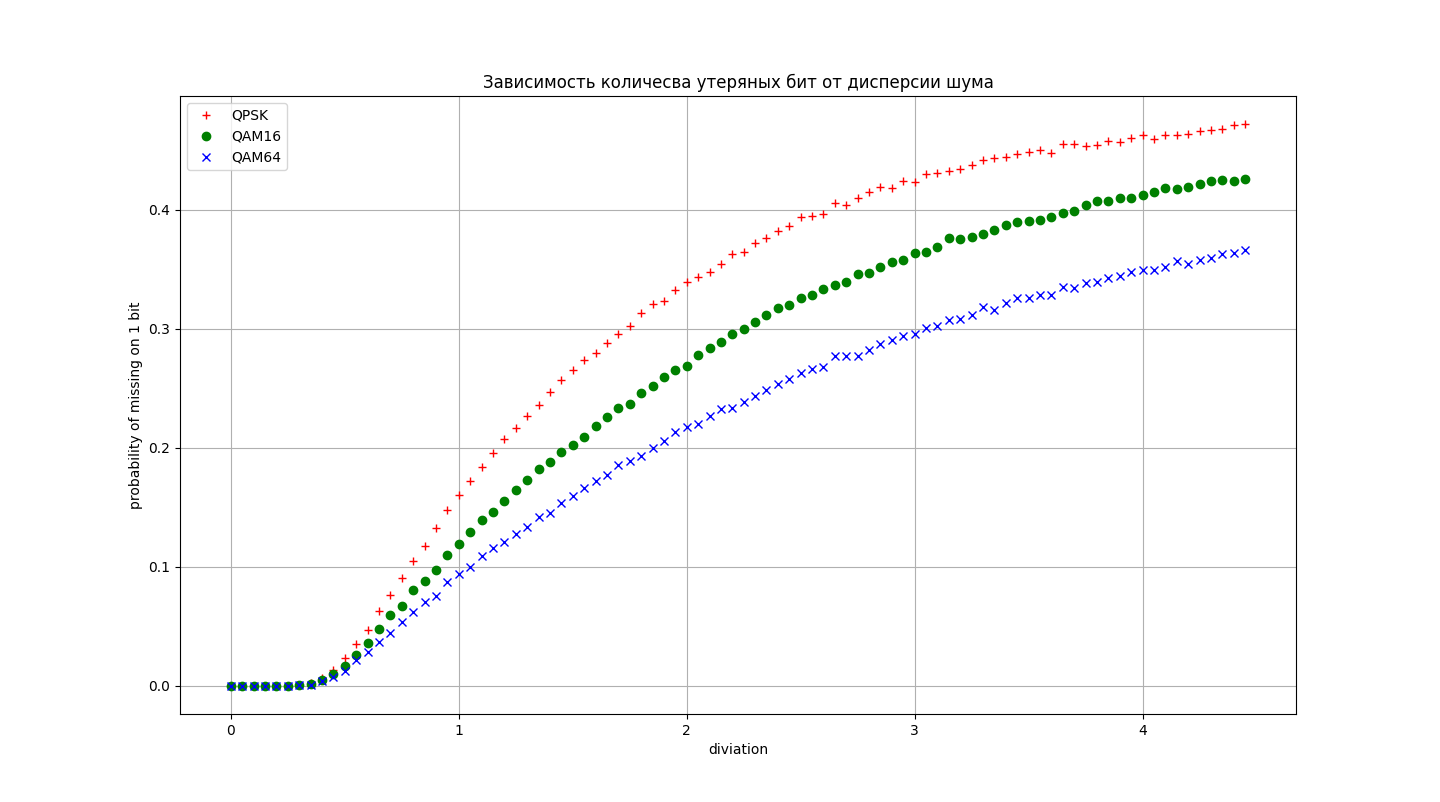
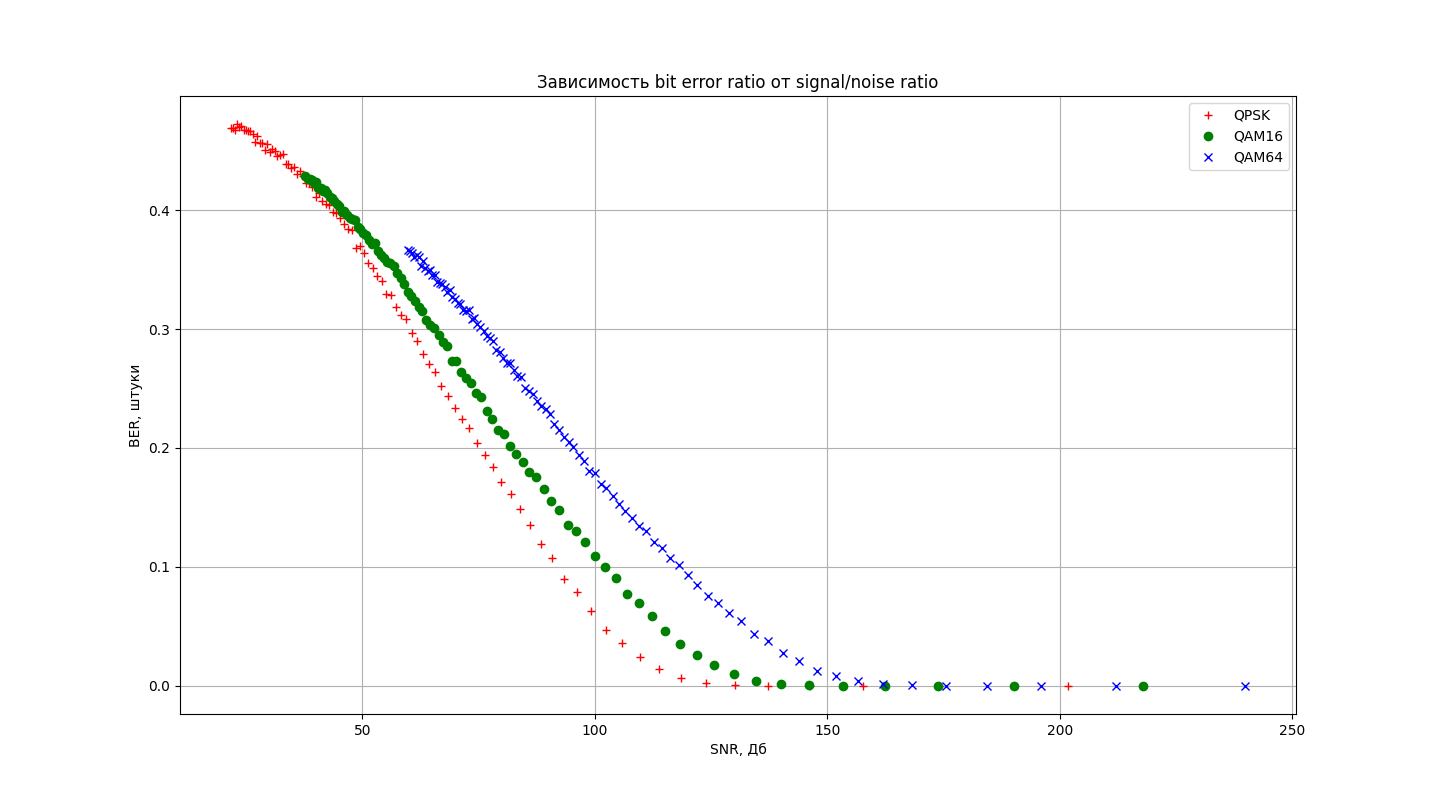
graph's axises changed

diff --git a/output.py b/output.py
@@ -1,24 +1,29 @@
 import numpy as np
 import matplotlib.pyplot as plt
 
-diviation   = np.array([0, 0.05, 0.1, 0.15, 0.2, 0.25, 0.3, 0.35, 0.4, 0.45, 0.5, 0.55, 0.6, 0.65, 0.7, 0.75, 0.8, 0.85, 0.9, 0.95, 1, 1.05, 1.1, 1.15, 1.2, 1.25, 1.3, 1.35, 1.4, 1.45, 1.5, 1.55, 1.6, 1.65, 1.7, 1.75, 1.8, 1.85, 1.9, 1.95, 2, 2.05, 2.1, 2.15, 2.2, 2.25, 2.3, 2.35, 2.4, 2.45, 2.5, 2.55, 2.6, 2.65, 2.7, 2.75, 2.8, 2.85, 2.9, 2.95, 3, 3.05, 3.1, 3.15, 3.2, 3.25, 3.3, 3.35, 3.4, 3.45, 3.5, 3.55, 3.6, 3.65, 3.7, 3.75, 3.8, 3.85, 3.9, 3.95, 4, 4.05, 4.1, 4.15, 4.2, 4.25, 4.3, 4.35, 4.4, 4.45])
-missed_qpsk  = np.array([0, 0, 0, 0, 0, 2.08333e-05, 0.000269167, 0.00230833, 0.00613333, 0.0134867, 0.022925, 0.0351408, 0.0467375, 0.0626575, 0.076515, 0.090275, 0.104446, 0.117608, 0.132761, 0.147706, 0.160357, 0.172095, 0.183497, 0.195783, 0.207605, 0.216571, 0.226692, 0.236045, 0.246639, 0.25687, 0.265033, 0.273576, 0.279857, 0.288381, 0.295595, 0.302405, 0.313428, 0.320752, 0.323545, 0.33284, 0.339456, 0.343368, 0.347666, 0.354675, 0.363334, 0.364907, 0.371978, 0.37618, 0.381884, 0.386511, 0.393906, 0.395158, 0.396718, 0.405668, 0.40386, 0.409687, 0.414977, 0.418905, 0.418637, 0.424173, 0.423513, 0.430078, 0.430743, 0.432459, 0.434781, 0.437994, 0.442345, 0.443942, 0.444653, 0.447339, 0.448345, 0.450333, 0.447632, 0.455239, 0.455628, 0.453803, 0.454877, 0.457949, 0.456906, 0.460642, 0.462801, 0.459647, 0.462816, 0.463362, 0.464197, 0.466256, 0.467585, 0.468216, 0.471198, 0.471949])
-missed_qam16 = np.array([0, 0, 0, 0, 0, 0, 0.0002975, 0.00173583, 0.00492083, 0.0100683, 0.0167083, 0.0261425, 0.0356733, 0.0479733, 0.05959, 0.067025, 0.0804142, 0.0883242, 0.0976625, 0.109867, 0.119097, 0.129005, 0.139707, 0.145844, 0.155647, 0.164417, 0.172807, 0.182504, 0.187658, 0.196305, 0.202529, 0.208819, 0.218249, 0.225598, 0.233717, 0.236727, 0.246028, 0.251882, 0.259337, 0.265445, 0.268645, 0.278186, 0.283878, 0.289028, 0.295329, 0.299855, 0.305391, 0.312025, 0.317217, 0.319969, 0.325848, 0.328182, 0.333696, 0.336455, 0.339206, 0.34641, 0.346693, 0.352324, 0.35624, 0.357527, 0.363371, 0.364201, 0.368777, 0.376383, 0.375401, 0.376928, 0.379524, 0.382688, 0.38736, 0.39007, 0.391079, 0.391567, 0.393838, 0.397068, 0.399172, 0.404099, 0.407804, 0.407807, 0.409798, 0.409714, 0.412257, 0.415153, 0.418197, 0.417903, 0.41892, 0.422097, 0.424577, 0.425012, 0.424652, 0.426305])
-missed_qam64 = np.array([0, 0, 0, 0, 0, 3e-05, 0.000245833, 0.00100167, 0.00386417, 0.0072625, 0.0125667, 0.0213692, 0.028155, 0.03709, 0.0444667, 0.05333, 0.0620533, 0.0707408, 0.0756567, 0.0867908, 0.0941792, 0.0994625, 0.108789, 0.115354, 0.120743, 0.12787, 0.133485, 0.142098, 0.144916, 0.153193, 0.159763, 0.166131, 0.171958, 0.177214, 0.185186, 0.188848, 0.193216, 0.200016, 0.205879, 0.213084, 0.217238, 0.220268, 0.226922, 0.232669, 0.233713, 0.238208, 0.243599, 0.248633, 0.253238, 0.257603, 0.262898, 0.266411, 0.268058, 0.277485, 0.276817, 0.277572, 0.282283, 0.287454, 0.290834, 0.293607, 0.295675, 0.300956, 0.302419, 0.307613, 0.308269, 0.311798, 0.31862, 0.315949, 0.321404, 0.326172, 0.326087, 0.32862, 0.328213, 0.335271, 0.334022, 0.338477, 0.339025, 0.342964, 0.344527, 0.347415, 0.349871, 0.349508, 0.351892, 0.356913, 0.354505, 0.357512, 0.359747, 0.362697, 0.364137, 0.366598])
+SNR_QPSK = np.array([201.716, 173.99, 157.772, 146.264, 137.339, 130.046, 123.88, 118.539, 113.827, 109.613, 105.8, 102.32, 99.1182, 96.1539, 93.3942, 90.8126, 88.3876, 86.1013, 83.9386, 81.8869, 79.9353, 78.0745, 76.2964, 74.594, 72.9611, 71.3923, 69.8827, 68.428, 67.0243, 65.6683, 64.3567, 63.0867, 61.8559, 60.6618, 59.5023, 58.3754, 57.2795, 56.2127, 55.1737, 54.161, 53.1733, 52.2094, 51.2682, 50.3486, 49.4497, 48.5705, 47.7103, 46.8681, 46.0434, 45.2353, 44.4432, 43.6664, 42.9045, 42.1568, 41.4229, 40.7021, 39.9941, 39.2985, 38.6147, 37.9424, 37.2812, 36.6308, 35.9908, 35.3609, 34.7407, 34.13, 33.5285, 32.9359, 32.3519, 31.7764, 31.209, 30.6495, 30.0978, 29.5536, 29.0167, 28.4868, 27.964, 27.4478, 26.9383, 26.4351, 25.9382, 25.4474, 24.9626, 24.4835, 24.0101, 23.5423, 23.0799, 22.6227, 22.1707, 21.7238])
+missed_QPSK = np.array([0, 0, 0, 0, 2.66667e-05, 0.000403333, 0.00197583, 0.0065225, 0.0140225, 0.0242817, 0.0362833, 0.0468225, 0.0628525, 0.0786133, 0.0895475, 0.107346, 0.11947, 0.135386, 0.148602, 0.160922, 0.171348, 0.184113, 0.194297, 0.204506, 0.217091, 0.223951, 0.23327, 0.243803, 0.252304, 0.264188, 0.270668, 0.279257, 0.289652, 0.296616, 0.308036, 0.31208, 0.31873, 0.328582, 0.329664, 0.340005, 0.344279, 0.350936, 0.355792, 0.363532, 0.369874, 0.367819, 0.383618, 0.383858, 0.388664, 0.393156, 0.397647, 0.398758, 0.40465, 0.404898, 0.407687, 0.414297, 0.41138, 0.419223, 0.422598, 0.422868, 0.428838, 0.433223, 0.430655, 0.435975, 0.435346, 0.43865, 0.438597, 0.447072, 0.446156, 0.445145, 0.449763, 0.45136, 0.449082, 0.455307, 0.450496, 0.456337, 0.456863, 0.462741, 0.457674, 0.464037, 0.466887, 0.46664, 0.467195, 0.467129, 0.470325, 0.469621, 0.472162, 0.467504, 0.468725, 0.469382])
+SNR_QAM16 = np.array([217.786, 190.06, 173.842, 162.334, 153.409, 146.116, 139.95, 134.608, 129.897, 125.683, 121.87, 118.39, 115.188, 112.224, 109.464, 106.883, 104.458, 102.171, 100.009, 97.9568, 96.0052, 94.1444, 92.3663, 90.6639, 89.0311, 87.4622, 85.9526, 84.4979, 83.0943, 81.7382, 80.4266, 79.1567, 77.9258, 76.7317, 75.5722, 74.4453, 73.3494, 72.2826, 71.2436, 70.2309, 69.2432, 68.2793, 67.3381, 66.4185, 65.5196, 64.6404, 63.7802, 62.938, 62.1133, 61.3052, 60.5131, 59.7363, 58.9744, 58.2267, 57.4928, 56.772, 56.064, 55.3684, 54.6846, 54.0123, 53.3511, 52.7007, 52.0607, 51.4308, 50.8106, 50.1999, 49.5984, 49.0058, 48.4218, 47.8463, 47.2789, 46.7194, 46.1677, 45.6235, 45.0866, 44.5568, 44.0339, 43.5177, 43.0082, 42.505, 42.0081, 41.5173, 41.0325, 40.5534, 40.08, 39.6122, 39.1498, 38.6926, 38.2406, 37.7937])
+missed_QAM16 = np.array([0, 0, 0, 0, 0, 0.000328333, 0.00182917, 0.00404083, 0.00984417, 0.0171908, 0.0258425, 0.0349267, 0.04616, 0.0582233, 0.0698367, 0.0769175, 0.0902275, 0.0997075, 0.109263, 0.121188, 0.129946, 0.135042, 0.147527, 0.155042, 0.16506, 0.175278, 0.179948, 0.188073, 0.195268, 0.201915, 0.211406, 0.215144, 0.224612, 0.231303, 0.242982, 0.245951, 0.254768, 0.259019, 0.263877, 0.272952, 0.273107, 0.286053, 0.288712, 0.295122, 0.300905, 0.303132, 0.307964, 0.314751, 0.318871, 0.323664, 0.327518, 0.331276, 0.337756, 0.342742, 0.346879, 0.352798, 0.355587, 0.355953, 0.359732, 0.36196, 0.365946, 0.372279, 0.371711, 0.375224, 0.379095, 0.380653, 0.384307, 0.385717, 0.391589, 0.392317, 0.393191, 0.396097, 0.39936, 0.398553, 0.403392, 0.404791, 0.407453, 0.410119, 0.411285, 0.414094, 0.416529, 0.41578, 0.418594, 0.419007, 0.423768, 0.422434, 0.425472, 0.426109, 0.426192, 0.428918])
+SNR_QAM64 = np.array([239.858, 212.132, 195.913, 184.406, 175.48, 168.187, 162.021, 156.68, 151.969, 147.754, 143.942, 140.461, 137.26, 134.295, 131.536, 128.954, 126.529, 124.243, 122.08, 120.028, 118.077, 116.216, 114.438, 112.735, 111.103, 109.534, 108.024, 106.569, 105.166, 103.81, 102.498, 101.228, 99.9973, 98.8032, 97.6437, 96.5168, 95.4209, 94.3541, 93.3151, 92.3024, 91.3147, 90.3508, 89.4096, 88.49, 87.5911, 86.7119, 85.8517, 85.0095, 84.1848, 83.3767, 82.5846, 81.8078, 81.0459, 80.2982, 79.5643, 78.8435, 78.1355, 77.4399, 76.7561, 76.0838, 75.4226, 74.7722, 74.1322, 73.5023, 72.8821, 72.2714, 71.6699, 71.0773, 70.4933, 69.9178, 69.3504, 68.7909, 68.2392, 67.695, 67.1581, 66.6283, 66.1054, 65.5892, 65.0797, 64.5765, 64.0796, 63.5888, 63.104, 62.6249, 62.1515, 61.6837, 61.2213, 60.7641, 60.3121, 59.8652])
+missed_QAM64 = np.array([0, 0, 0, 0, 4.08333e-05, 0.000316667, 0.00116667, 0.0038125, 0.00810917, 0.01268, 0.0206317, 0.0275467, 0.03719, 0.043735, 0.0540058, 0.0607733, 0.0692217, 0.0758233, 0.0848733, 0.0931675, 0.101113, 0.107336, 0.115811, 0.120766, 0.130528, 0.134058, 0.141038, 0.147084, 0.152503, 0.159358, 0.166235, 0.169331, 0.179278, 0.18099, 0.189143, 0.194257, 0.200763, 0.205283, 0.209324, 0.215039, 0.220509, 0.228527, 0.232742, 0.235188, 0.239791, 0.245391, 0.248092, 0.250449, 0.25956, 0.260667, 0.265922, 0.271117, 0.27182, 0.275717, 0.280976, 0.28238, 0.289573, 0.292432, 0.294414, 0.298076, 0.301878, 0.303865, 0.309342, 0.308494, 0.315759, 0.314741, 0.316029, 0.321334, 0.322223, 0.325138, 0.327297, 0.332707, 0.331266, 0.335341, 0.338133, 0.338967, 0.339508, 0.345498, 0.345605, 0.349358, 0.349094, 0.351048, 0.357109, 0.353394, 0.360664, 0.362149, 0.360888, 0.363809, 0.365479, 0.366667])
 
-print(diviation)
-print(missed_qpsk)
-print(missed_qam16)
-print(missed_qam64)
 
-plt.ylabel(r"probability of missing on 1 bit") # подписи к осям
-plt.xlabel(r"diviation")
-plt.title(r'Зависимость количесва утеряных бит от дисперсии шума') # заголовок
+print(SNR_QPSK)
+print(missed_QPSK)
+print(SNR_QAM16)
+print(missed_QAM16)
+print(SNR_QAM64)
+print(missed_QAM64)
+
+plt.ylabel(r"BER, штуки") # подписи к осям
+plt.xlabel(r"SNR, Дб")
+plt.title(r'Зависимость bit error ratio от signal/noise ratio') # заголовок
 plt.grid(True) # сетка
 
-plt.plot(diviation, missed_qpsk, '+', label='QPSK', color="red")
-plt.plot(diviation, missed_qam16, 'o', label='QAM16', color="green")
-plt.plot(diviation, missed_qam64, 'x', label='QAM64', color="blue")
+plt.plot(SNR_QPSK, missed_QPSK, '+', label='QPSK', color="red")
+plt.plot(SNR_QAM16, missed_QAM16, 'o', label='QAM16', color="green")
+plt.plot(SNR_QAM64, missed_QAM64, 'x', label='QAM64', color="blue")
 
 plt.legend()
 plt.show()

diff --git a/src/help.cpp b/src/help.cpp
@@ -1,13 +1,19 @@
 #include "../include/help.h"
 
-std::string after_dev = R"(])
-missed_qpsk  = np.array([)";
+std::string missed_text = R"(missed_)";
+
+std::string SNR_text = R"(SNR_)";
+
+std::string np_arr_beg = R"( = np.array([)";
+
+std::string np_arr_end = R"(])
+)";
 
 void full_py_beg(PythonFileCreator& file_ctor, const std::string filename) {
     std::string intro = R"(import numpy as np
 import matplotlib.pyplot as plt
 
-diviation   = np.array([)";
+)";
 
     
     file_ctor.clear_file_content(filename);
@@ -15,28 +21,44 @@ diviation   = np.array([)";
 }
 
 void full_py_end(PythonFileCreator& file_ctor, const std::string filename){
-    std::string end = R"(])
+    std::string end = R"(
 
-print(diviation)
-print(missed_qpsk)
-print(missed_qam16)
-print(missed_qam64)
+print(SNR_QPSK)
+print(missed_QPSK)
+print(SNR_QAM16)
+print(missed_QAM16)
+print(SNR_QAM64)
+print(missed_QAM64)
 
-plt.ylabel(r"probability of missing on 1 bit") # подписи к осям
-plt.xlabel(r"diviation")
-plt.title(r'Зависимость количесва утеряных бит от дисперсии шума') # заголовок
+plt.ylabel(r"BER, штуки") # подписи к осям
+plt.xlabel(r"SNR, Дб")
+plt.title(r'Зависимость bit error ratio от signal/noise ratio') # заголовок
 plt.grid(True) # сетка
 
-plt.plot(diviation, missed_qpsk, '+', label='QPSK', color="red")
-plt.plot(diviation, missed_qam16, 'o', label='QAM16', color="green")
-plt.plot(diviation, missed_qam64, 'x', label='QAM64', color="blue")
+plt.plot(SNR_QPSK, missed_QPSK, '+', label='QPSK', color="red")
+plt.plot(SNR_QAM16, missed_QAM16, 'o', label='QAM16', color="green")
+plt.plot(SNR_QAM64, missed_QAM64, 'x', label='QAM64', color="blue")
 
 plt.legend()
 plt.show()
     )";
 
     file_ctor.add_lines_to_python_file(filename, end);
+}
 
+double aver_sq_find(Signal* signal_arr, int amount){
+    double sum_sq = 0.0;
+
+    for (int co = 0; co < amount; co++)
+    {
+        sum_sq += signal_arr[co].quadrature * signal_arr[co].quadrature;
+    }
+
+    sum_sq = sum_sq / ((double)amount);
+
+    std::cout << "sum_sq = " << sum_sq <<std::endl;
+
+    return sum_sq;
 }
 
 void test_modulation(QAMModulator& modulator, QAMDemodulator& demodulator, const std::string& modulation_name, PythonFileCreator& file_ctor, QAMChannel& channel, const std::string& filename) {
@@ -45,8 +67,11 @@ void test_modulation(QAMModulator& modulator, QAMDemodulator& demodulator, const
     TestInfo test_info;
 
     double sum = 0.0;
+    double aver_quadr = 0.0;
 
     static int status = 0;
+
+    int found = 0;
 
     int misses = 0;
     int max_co = ACCUR;
@@ -57,20 +82,13 @@ void test_modulation(QAMModulator& modulator, QAMDemodulator& demodulator, const
     Signal* signal_arr   = nullptr;
 
     double* dev = (double*)calloc(points, sizeof(double));  //array of deviation
-    double* ave = (double*)calloc(points, sizeof(double));  //array of average value of misses
+    double* ave = (double*)calloc(points, sizeof(double));  //array of average amount of missed 
+    double* SNR = (double*)calloc(points, sizeof(double));  //array of SNR for every deviation & modulation
     hard_check(ave != nullptr);
     hard_check(dev != nullptr);
 
-    for (int co = 1; co < points; co++) {
-        dev[co] = 0.05*co;
-    }
-
-    if (!status)
-    {
-        std::string dev_arr = file_ctor.double_array_to_string(dev, points);
-        file_ctor.add_lines_to_python_file(filename, dev_arr);
-        file_ctor.add_lines_to_python_file(filename, after_dev);
-        status++;
+    for (int co = 0; co < points; co++) {
+        dev[co] = 0.05*co + 0.05;
     }
 
     for(int out_co = 0; out_co < points; out_co++) {
@@ -84,28 +102,51 @@ void test_modulation(QAMModulator& modulator, QAMDemodulator& demodulator, const
             check(test_info.amount      != 0);
             check(test_info.bit_in_word != 0);
 
+            if(!found){
+                aver_quadr = aver_sq_find(signal_arr, test_info.amount);
+                found++;   
+            }
+            
 
             channel.add_noise_arr(signal_arr, dev[out_co], test_info.amount);
 
             demodulated_arr = demodulator.demodulate_arr(signal_arr);
-            misses          =  demodulator.bit_check(arr_bit, demodulated_arr, test_info.amount);
+            misses          = demodulator.bit_check(arr_bit, demodulated_arr, test_info.amount);
 
             sum += misses;
         }
 
         ave[out_co] = sum/((double)max_co * (double)test_info.amount * (double)test_info.bit_in_word);
-        
+        SNR[out_co] = 20 * log((((double)test_info.amount) * aver_quadr) / (dev[out_co] * dev[out_co]));
+
         std::cout.setf(std::ios::fixed);
         std::cout.precision(2); //2 - число символов после точки
         std::cout << "dev = " << dev[out_co] << "   ave = " << ave[out_co] << std::endl;
     }
 
-    std::string modulation_arr = file_ctor.double_array_to_string(ave, points);
-    file_ctor.add_lines_to_python_file(filename, modulation_arr);
+
+
+    std::string SNR_arr = file_ctor.double_array_to_string(SNR, points);
+    
+    file_ctor.add_lines_to_python_file(filename, SNR_text);
+    file_ctor.add_lines_to_python_file(filename, modulation_name);
+    file_ctor.add_lines_to_python_file(filename, np_arr_beg);
+    file_ctor.add_lines_to_python_file(filename, SNR_arr);
+    file_ctor.add_lines_to_python_file(filename, np_arr_end);
+    
+
+    std::string ave_arr = file_ctor.double_array_to_string(ave, points);
+    
+    file_ctor.add_lines_to_python_file(filename, missed_text);
+    file_ctor.add_lines_to_python_file(filename, modulation_name);
+    file_ctor.add_lines_to_python_file(filename, np_arr_beg);
+    file_ctor.add_lines_to_python_file(filename, ave_arr);
+    file_ctor.add_lines_to_python_file(filename, np_arr_end);
 
     free(demodulated_arr);
     free(signal_arr);
     free(arr_bit);
     free(dev);
     free(ave);
+    free(SNR);
 }

diff --git a/src/main.cpp b/src/main.cpp
@@ -3,7 +3,6 @@
 #include "../include/QAMChannel.h"
 #include "../include/PythonFileCreator.h"
 #include "../include/help.h"
-#include "../include/words.h"
 
 int main() {    
     const std::string filename = "output.py";
@@ -15,13 +14,11 @@ int main() {
     QAMModulator modulator_4(QAMModulator::ModulationType::QPSK);
     QAMDemodulator demodulator_4(QAMDemodulator::ModulationType::QPSK);
     test_modulation(modulator_4, demodulator_4, "QPSK", file_ctor, channel, filename);
-    file_ctor.add_lines_to_python_file(filename, after_qpsk);
 
     QAMModulator modulator_16(QAMModulator::ModulationType::QAM16);
     QAMDemodulator demodulator_16(QAMDemodulator::ModulationType::QAM16);
     test_modulation(modulator_16, demodulator_16, "QAM16", file_ctor, channel, filename);
-    file_ctor.add_lines_to_python_file(filename, after_qam16);
-
+   
     QAMModulator modulator_64(QAMModulator::ModulationType::QAM64);
     QAMDemodulator demodulator_64(QAMDemodulator::ModulationType::QAM64);
     test_modulation(modulator_64, demodulator_64, "QAM64", file_ctor, channel, filename);

diff --git a/include/help.h b/include/help.h
@@ -37,12 +37,14 @@
 #define QAM64_shft 3;
 
 #define ACCUR  10000;    //Than more this number - than mor will be value on the graph
-#define POINTS     90;   //Amount of points on the graph
+#define POINTS    90;   //Amount of points on the graph
 
 void full_py_beg(PythonFileCreator& file_ctor, const std::string filename);
 
 void full_py_end(PythonFileCreator& file_ctor, const std::string filename);
 
 void test_modulation(QAMModulator& modulator, QAMDemodulator& demodulator, const std::string& modulation_name, PythonFileCreator& file_ctor, QAMChannel& channel, const std::string& filename);
+
+double aver_sq_find(Signal* signal_arr, int amount);
 
 #endif
